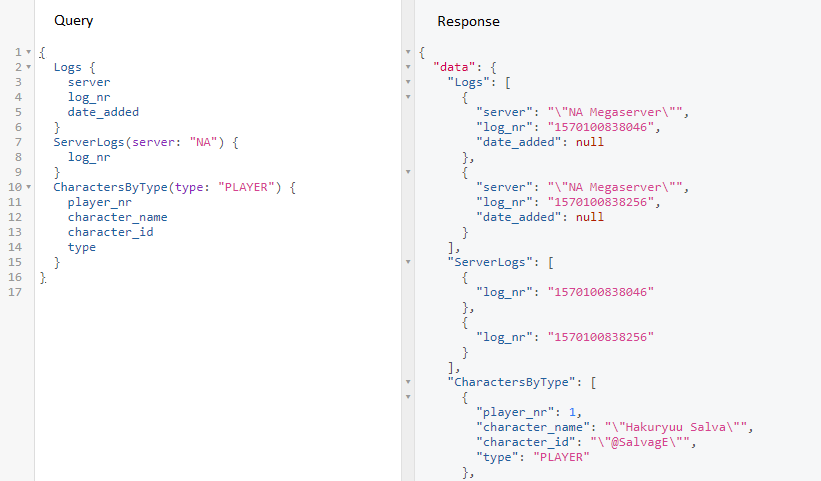
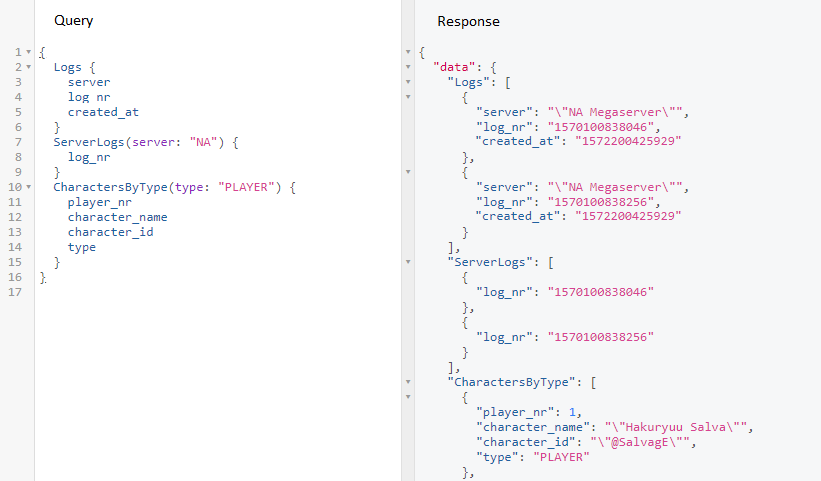
fixed Log schema and Readme example

Changed region(s): [[0.5786, 0.4366, 0.8222, 0.4678], [0.5786, 0.2807, 0.8222, 0.3119], [0.0914, 0.2183, 0.1827, 0.2495]]

diff --git a/models/schema.js b/models/schema.js
@@ -3,7 +3,7 @@ const queries = `
     id: Int
     server: String
     log_nr: String!
-    date_added: String
+    created_at: String
   }
   type Character {
     id: Int
